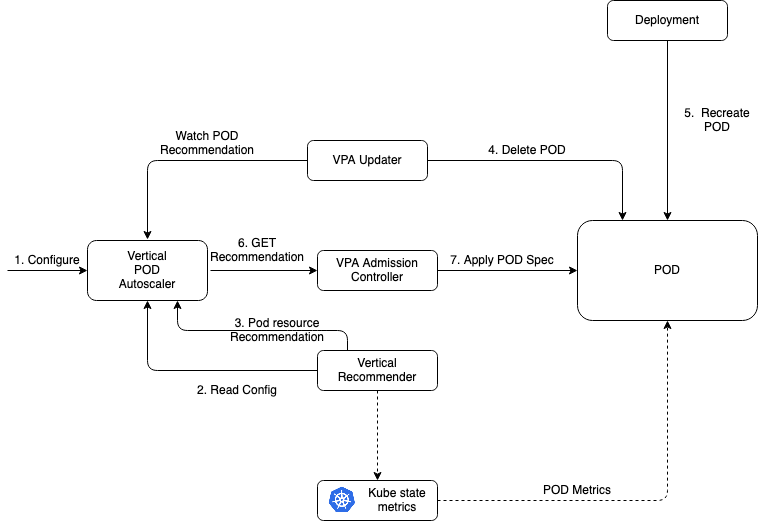
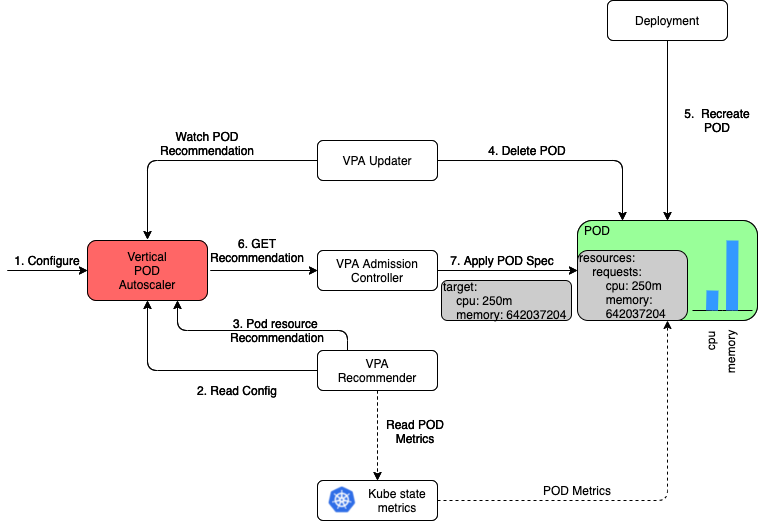
- gitignore was added to ignore DS_STORE and /idea - VPA architecture image was updated - Redundant word was removed from README

diff --git a/README.md b/README.md
@@ -8,7 +8,7 @@ In Kubernetes, while actual workloads run within containers, Pods are in fact th
  
 The solution here is to move away from manually specifying the compute resources for a pod that are static, and opt for a more automated scaling solution. The ideal solution would identify when a Pod requires additional resources, and adjust its requirements accordingly during the lifetime of the Pod. The Vertical Pod Autoscaler (VPA) was designed to specifically do this. The VPA will automatically scale the resources for a pod based on its usage trends. 
 
-The goal of this project is to transform Operate First OCP clusters from manually specifying compute resource requirements for pods and to instead use the VPA instead. Thus having all workloads automatically scale up/down their resources on a need basis.
+The goal of this project is to transform Operate First OCP clusters from manually specifying compute resource requirements for pods and to use the VPA instead. Thus having all workloads automatically scale up/down their resources on a need basis.
 
 ## Users & Personas of the project
 
